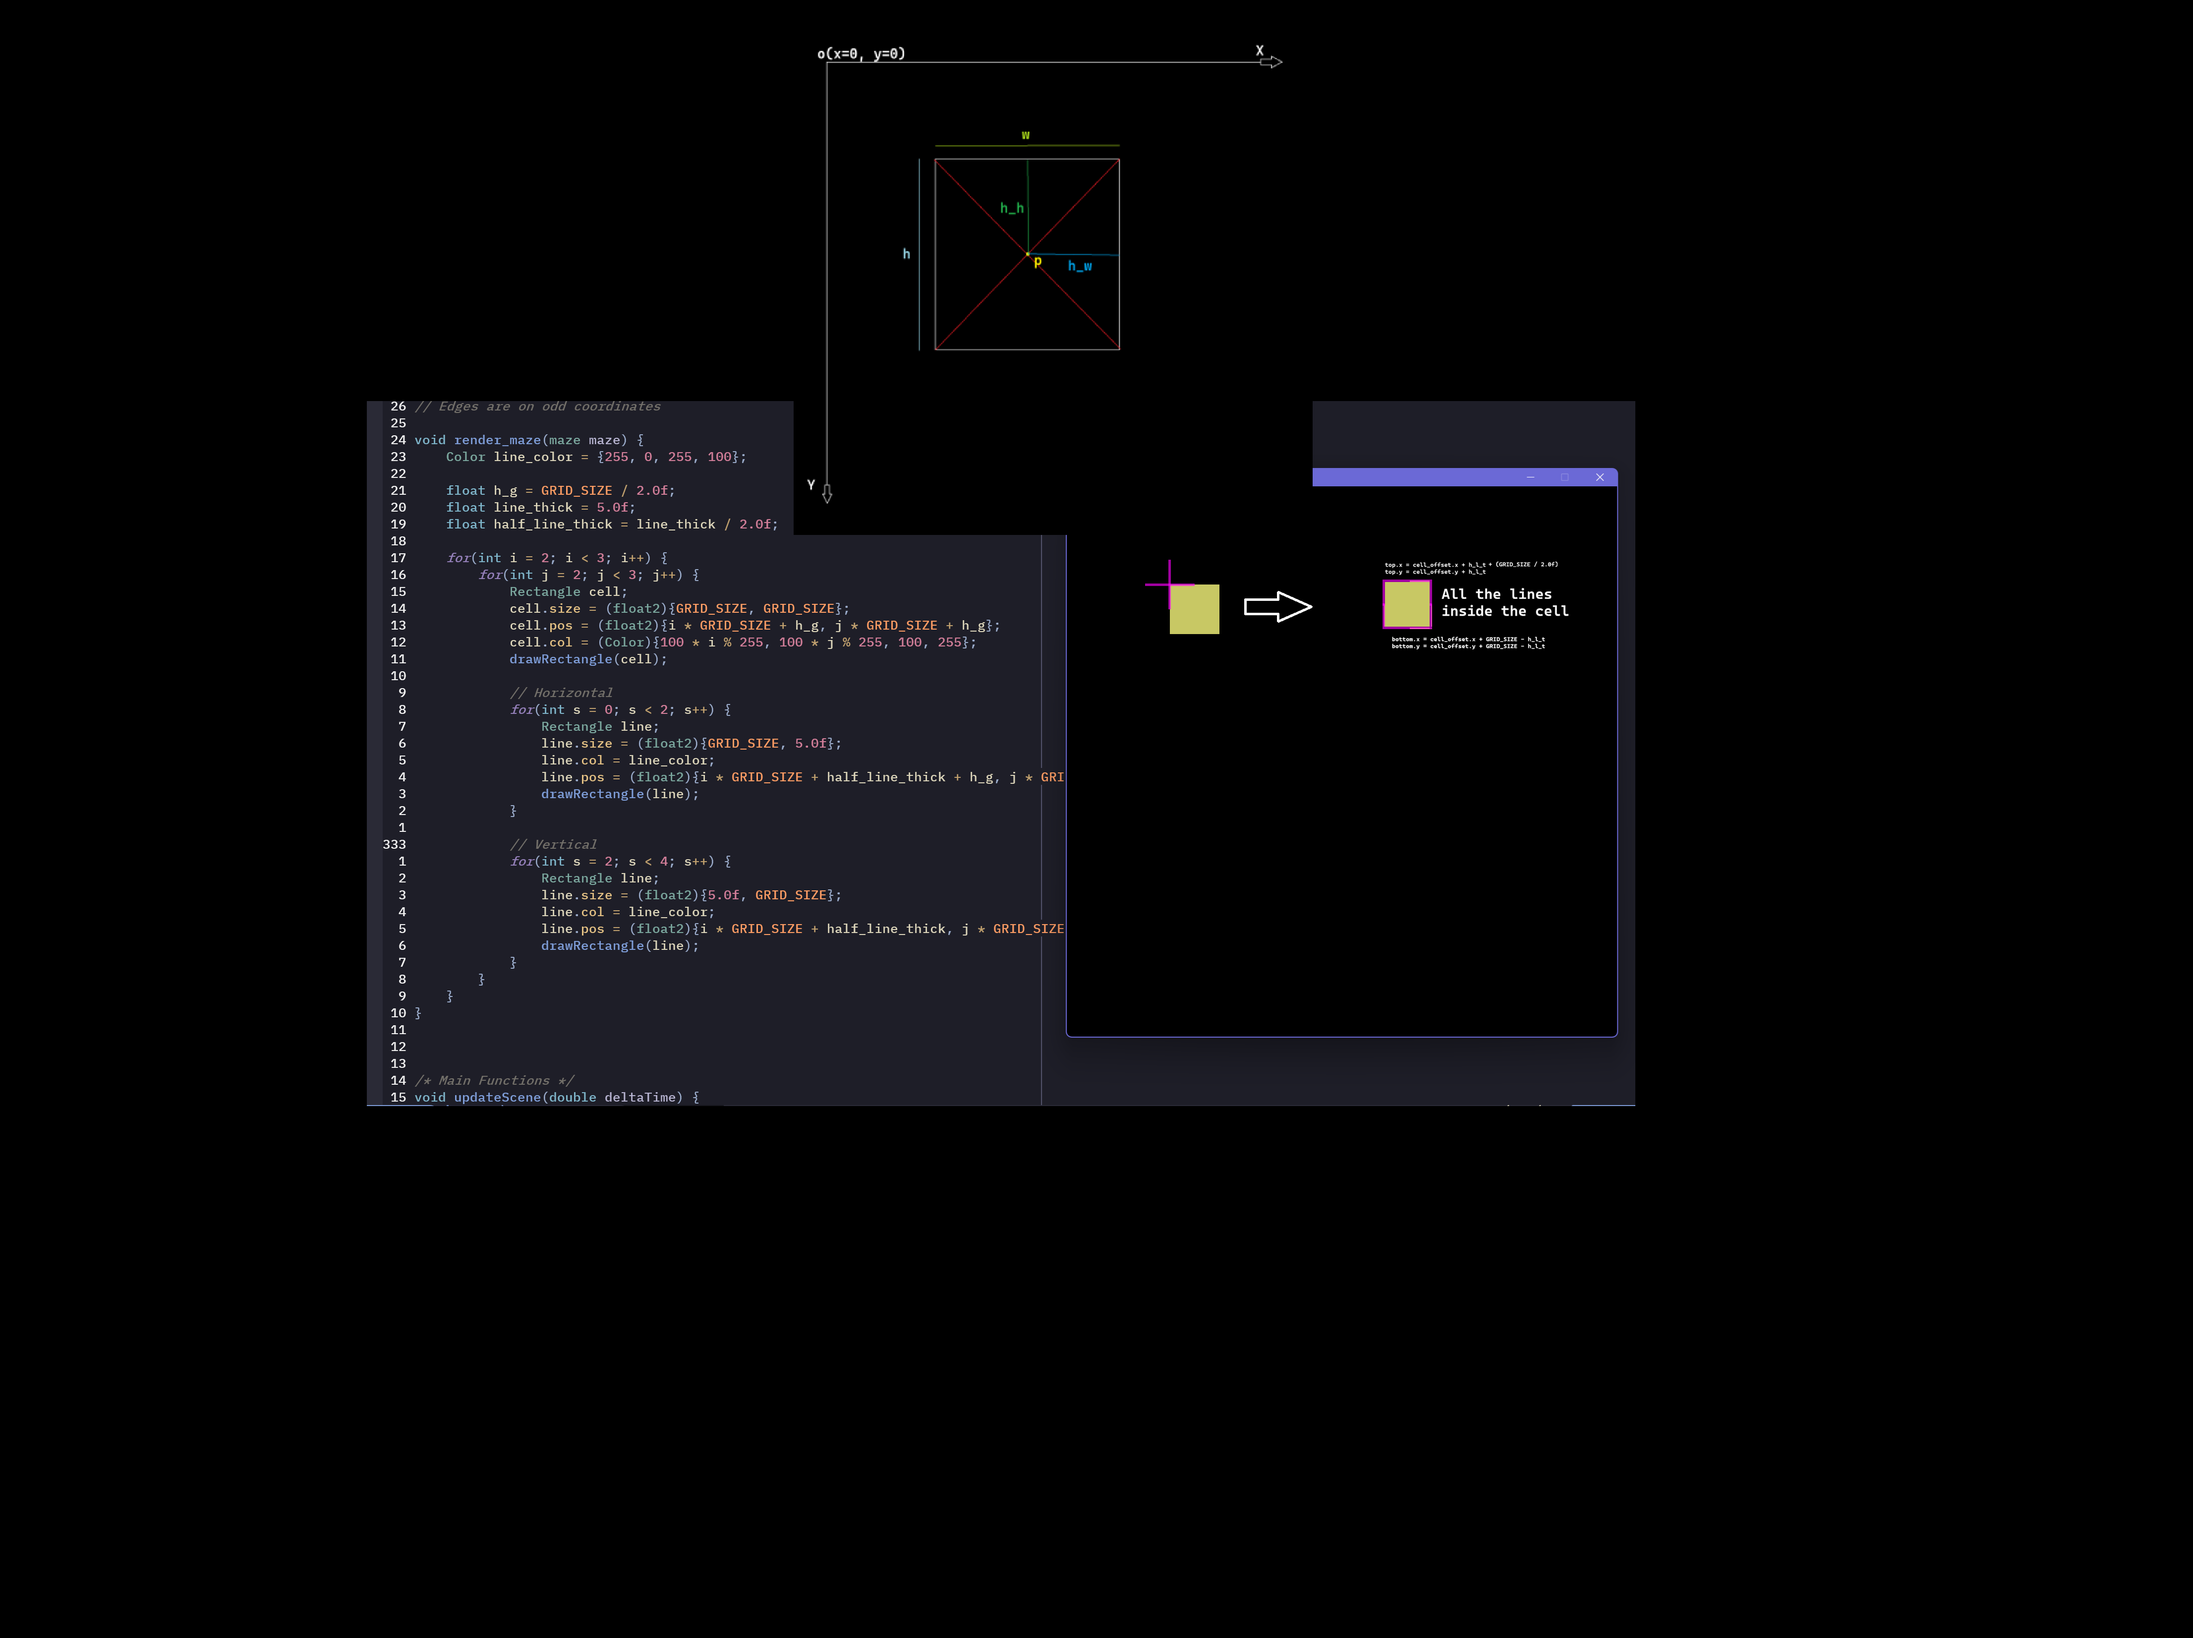
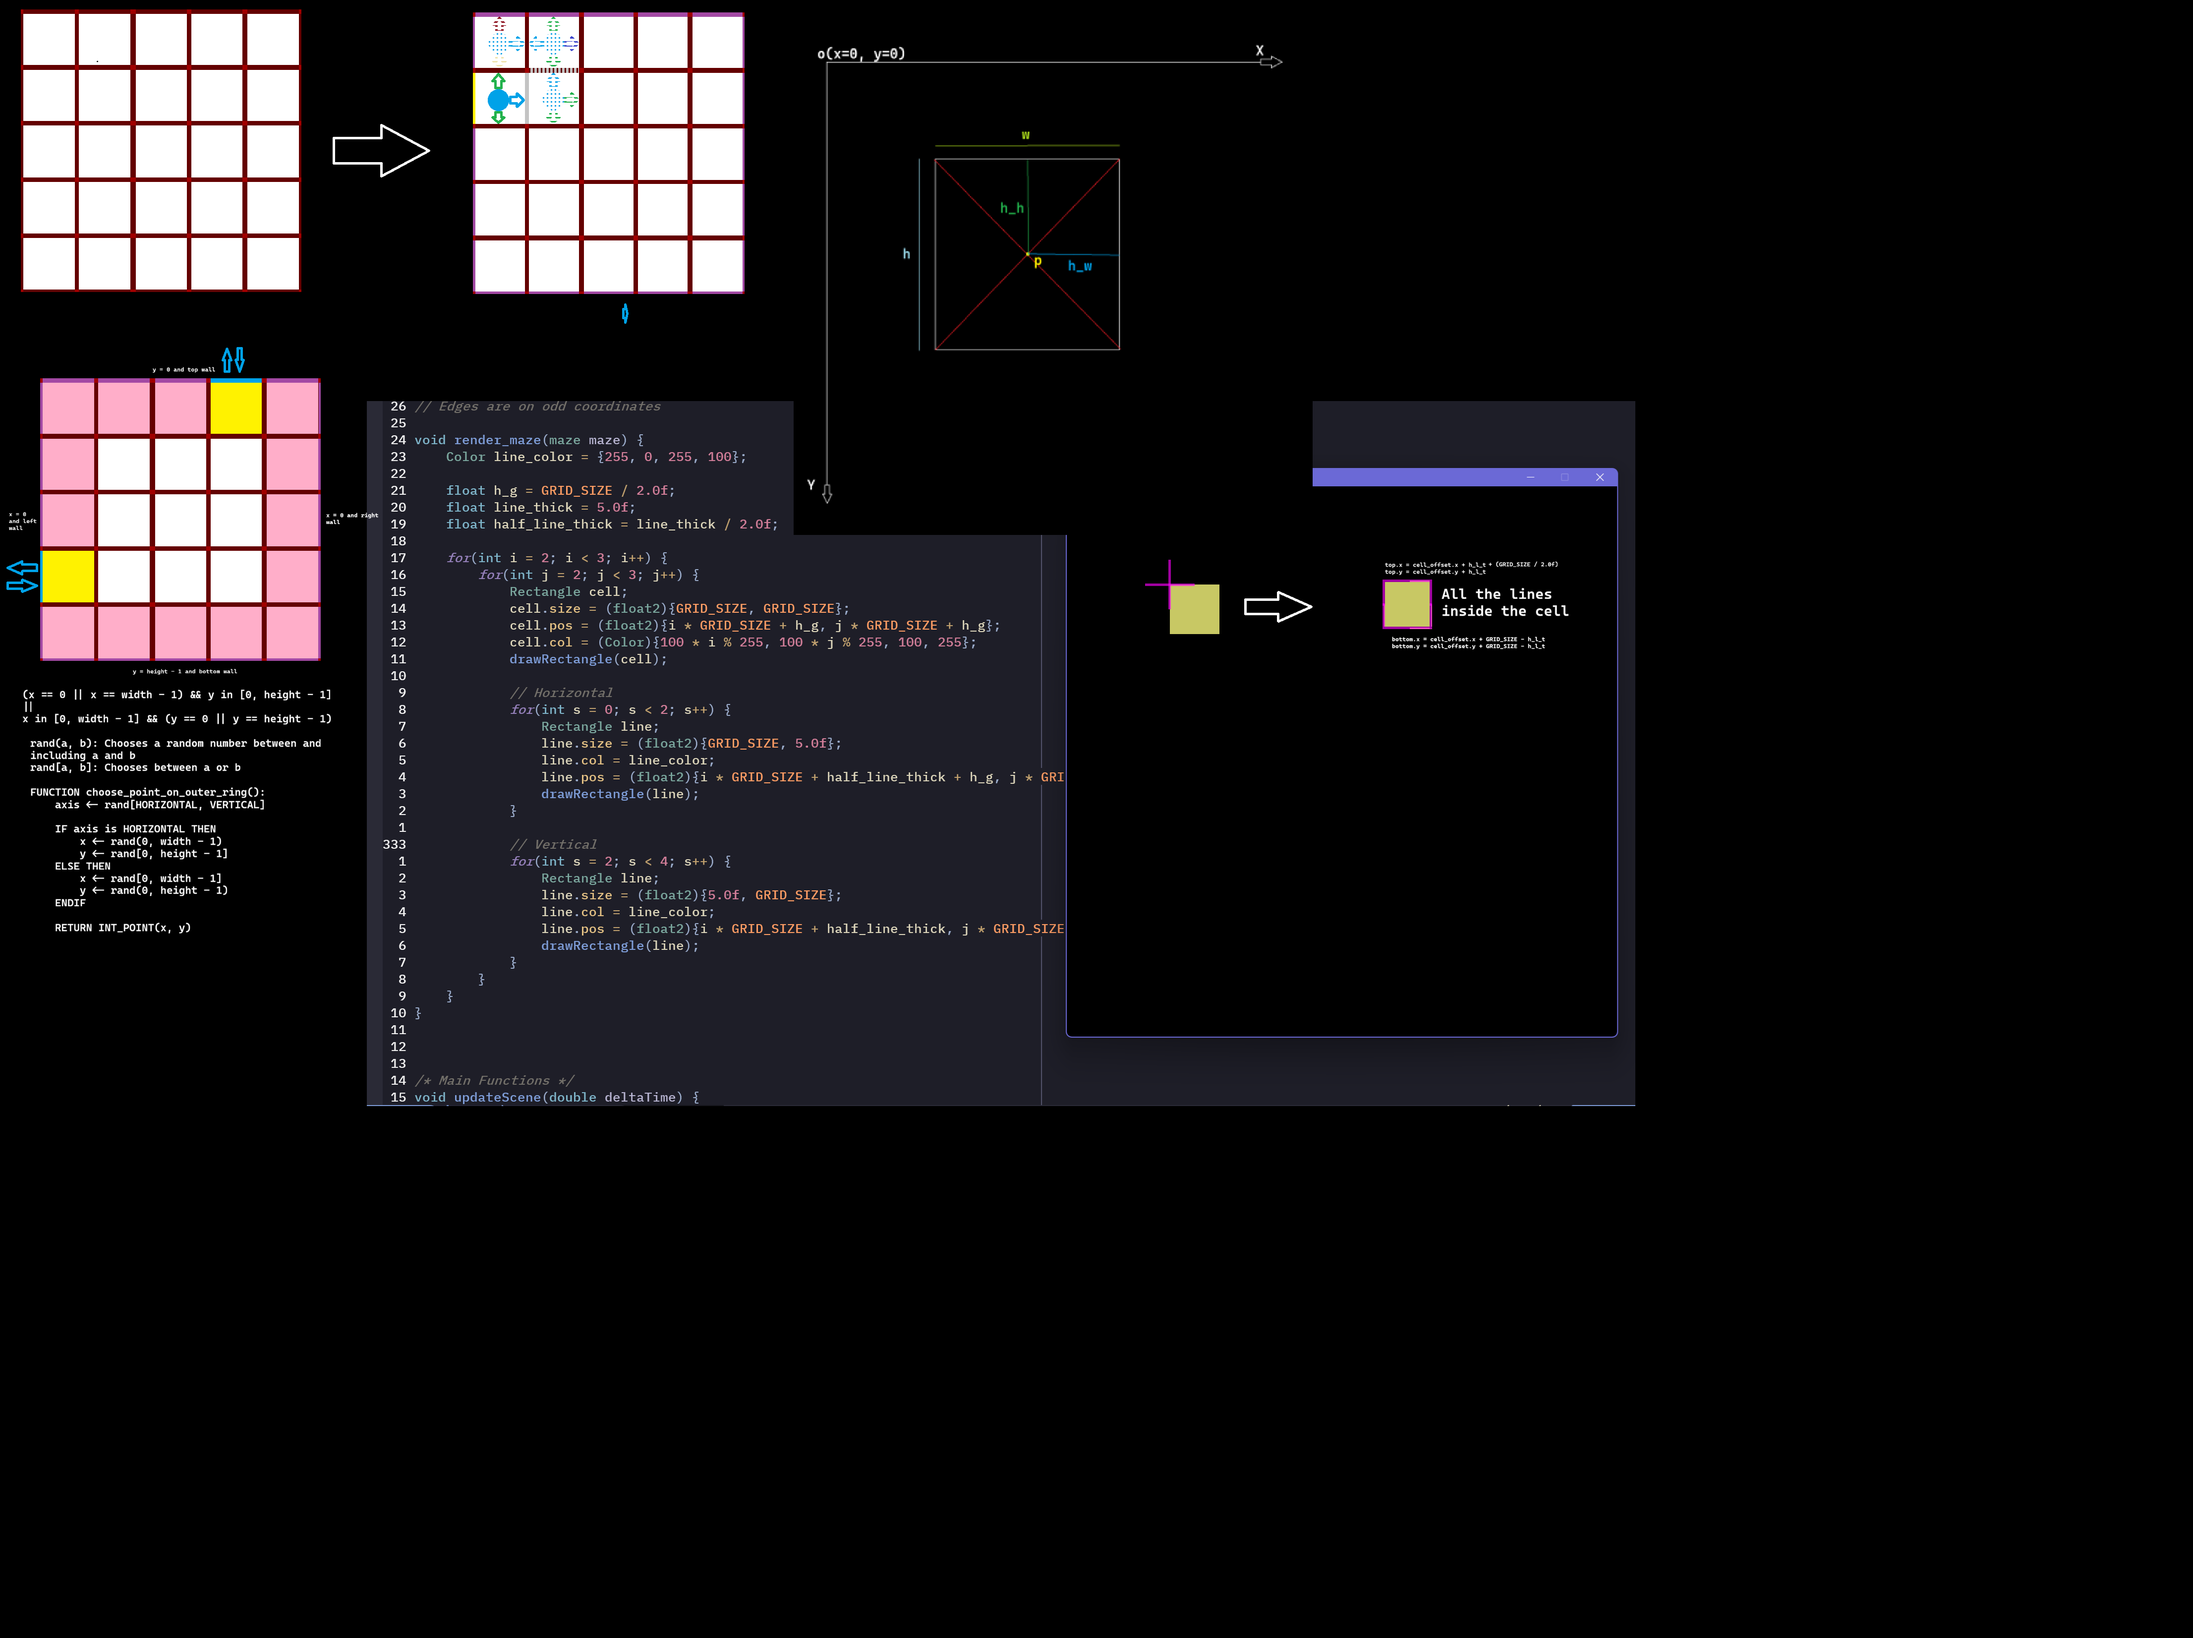
idk

diff --git a/maze/app.c b/maze/app.c
@@ -68,6 +68,13 @@ typedef struct int2 {
 
 VECTOR_DEFINE(int2);
 
+bool contains_vector_int2(Vector_int2* vector, int2 value) {
+    for(int i = 0; i < vector->length; i++) {
+        if(vector->data[i].x == value.x && vector->data[i].y == value.y) { return true; }
+    }
+    return false;
+}
+
 typedef ivec3 int3;
 typedef ivec4 int4;
 
@@ -320,7 +327,8 @@ typedef enum Direction {
     top,
     bottom,
     left,
-    right
+    right,
+    none
 } Direction;
 
 typedef struct cell {
@@ -332,6 +340,7 @@ typedef struct cell {
                    //         h t t
                    //         t   o
                    //             m
+    bool visited;
 } cell;
 
 // Represents the grid of a maze, including the edges
@@ -346,6 +355,7 @@ void initialize_maze(maze* maze) {
             set_bit(&maze->grid[i][j].wall, bottom);
             set_bit(&maze->grid[i][j].wall, left);
             set_bit(&maze->grid[i][j].wall, right);
+            maze->grid[i][j].visited = false;
         }
     }
 }
@@ -361,19 +371,30 @@ bool is_point_in_maze(int2 point) {
     return is_point_inside_box(point, valid_box.tl, valid_box.br);
 }
 
-void render_maze(maze* maze) {
+void render_maze(maze* maze, Vector_int2* visited_pos) {
     Color line_color = {50, 0, 60, 255};
-    Color no_line_color = {255, 255, 255, 100};
+    Color no_line_color = {255, 255, 255, 000};
+    Color unvisited_cell_col = {0, 0, 0, 255};
+    Color visited_cell_col = {50, 50, 150, 255};
+    Color final_cell_col = {100, 100, 150, 255};
 
 
     for(int i = 0; i < MAZE_WITDH; i++) {
         for(int j = 0; j < MAZE_HEIGHT; j++) {
+            int2 pos = {i, j};
             int2 cell_offset = (int2){i * GRID_SIZE + h_l_t, j * GRID_SIZE + h_l_t};
 
             Rectangle cell;
             cell.size = (float2){GRID_SIZE, GRID_SIZE};
             cell.pos = (float2){cell_offset.x + h_g, cell_offset.y + h_g};
-            cell.col = (Color){100, 100, 150, 255};
+            if(contains_vector_int2(visited_pos, pos)) {
+                cell.col = final_cell_col;
+            } else if(maze->grid[i][j].visited == true) {
+                cell.col = visited_cell_col;
+            } else {
+                cell.col = unvisited_cell_col;
+            }
+
             drawRectangle(cell);
 
         }
@@ -489,8 +510,15 @@ void choose_pos(int2* walker_pos) {
 }
 
 
-void choose_wall(Direction* dir) {
+void choose_dir(Direction* dir) {
     *dir = rand() % 4;
+}
+
+void get_oppositide_dir(Direction dir, Direction* op) {
+    if(dir == top) { *op = bottom; return;  }
+    if(dir == bottom) { *op = top; return; }
+    if(dir == left) { *op = left; return; }
+    if(dir == right) { *op = right; return; }
 }
 
 void choose_point_outside_ring(int2* pos) {
@@ -553,6 +581,23 @@ typedef struct Walker {
     Direction dir;
 } Walker;
 
+
+void dir_from_adyacent_ab(int2 a, int2 b, Direction* dir) {
+    int2 diff = (int2){b.x - a.x, b.y - a.y};
+    Direction dir_;
+    if(diff.x == 0 && diff.y != 0) {
+        if(diff.y < 0) { *dir = top; }
+        else { *dir = bottom; }
+    } else if(diff.x != 0 && diff.y == 0) {
+        if(diff.x < 0) { *dir = left; }
+        else { *dir = right; }
+    } else { *dir =  none; }
+}
+
+void dir_from_walker_to_walker(Walker walker_a, Walker walker_b, Direction* dir) {
+    dir_from_adyacent_ab(walker_a.head, walker_b.head, dir);
+}
+
 void predict_new_pos(Walker walker, int2* prediction) {
     int2 new_pos = walker.head;
     switch(walker.dir) {
@@ -567,6 +612,32 @@ void predict_new_pos(Walker walker, int2* prediction) {
             break;
         case right:
             new_pos.x += 1;
+            break;
+        default:
+            printf("hmmm.... no direction for walker given...\n");
+            break;
+    }
+
+    *prediction =new_pos;
+}
+
+void predict_new_pos_in_dir(Walker walker, Direction dir, int2* prediction) {
+    int2 new_pos = walker.head;
+    switch(dir) {
+        case top:
+            new_pos.y -= 1;
+            break;
+        case bottom:
+            new_pos.y += 1;
+            break;
+        case left:
+            new_pos.x -= 1;
+            break;
+        case right:
+            new_pos.x += 1;
+            break;
+        default:
+            printf("hmmm.... no direction for walker given...\n");
             break;
     }
 
@@ -588,6 +659,9 @@ bool move_walker_in_dir(Walker* walker) {
         case right:
             new_pos.x += 1;
             break;
+        default:
+            printf("hmmm.... no direction for walker given...\n");
+            break;
     }
     if(!is_point_in_maze(new_pos)) { return false; }
 
@@ -595,12 +669,109 @@ bool move_walker_in_dir(Walker* walker) {
     return true;
 }
 
-// Carve maze
-void gen_maze(maze* maze, Walker* walker, Walker* prev_walker, int step) {
+bool is_pointing_wall(maze* maze, Walker walker) {
+    return check_wall(maze, walker.head, walker.dir);
+}
+
+bool can_move_walker_in_dir(maze* maze, Walker* walker) {
+    int2 new_pos = walker->head;
+    switch(walker->dir) {
+        case top:
+            new_pos.y -= 1;
+            break;
+        case bottom:
+            new_pos.y += 1;
+            break;
+        case left:
+            new_pos.x -= 1;
+            break;
+        case right:
+            new_pos.x += 1;
+            break;
+        default:
+            printf("hmmm.... no direction for walker given...\n");
+            break;
+    }
+    if(!is_point_in_maze(new_pos)) { return false; }
+    if(maze->grid[new_pos.x][new_pos.y].visited == true) { return false; }
+
+    return true;
+}
+
+bool can_move_walker_in_visited(maze* maze, Walker* walker, Vector_int2* visited_pos) {
+    int2 new_pos = walker->head;
+    switch(walker->dir) {
+        case top:
+            new_pos.y -= 1;
+            break;
+        case bottom:
+            new_pos.y += 1;
+            break;
+        case left:
+            new_pos.x -= 1;
+            break;
+        case right:
+            new_pos.x += 1;
+            break;
+        default:
+            printf("hmmm.... no direction for walker given...\n");
+            break;
+    }
+    if(!is_point_in_maze(new_pos) ||
+       maze->grid[new_pos.x][new_pos.y].visited == false ||
+       check_wall(maze, walker->head, walker->dir) ||
+       contains_vector_int2(visited_pos, new_pos)) {
+        return false;
+    }
+
+    return true;
+}
+
+bool is_enclosed_by_visited_pos(maze* maze, Walker walker) {
+    int2 predicted_pos;
+    Walker tmp_walker = walker;
+    for(int i = 0; i < 4; i++) {
+        tmp_walker.dir = i;
+        predict_new_pos(tmp_walker, &predicted_pos);
+        if(is_point_in_maze(predicted_pos)) {
+            if(maze->grid[predicted_pos.x][predicted_pos.y].visited == false) {
+                return false;
+            }
+        }
+    }
+    return true;
+}
+
+void backtrack_walker(maze* maze, Walker* walker, Walker* prev_walker, Vector_int2* visited_pos) {
+    int2 predicted_pos;
+    predict_new_pos(*walker, &predicted_pos);
+
+    int choosed_num = 0;
+    while(!can_move_walker_in_visited(maze, walker, visited_pos)) {
+        if(choosed_num >= 4) { return; }
+        printf("Choosing new dir to backtrack..., prev: %d\n", walker->dir);
+        choose_dir(&walker->dir);
+        choosed_num++;
+    }
+    if(maze->grid[predicted_pos.x][predicted_pos.y].visited == true)
+        append_vector_int2(visited_pos, walker->head);
+    move_walker_in_dir(walker);
+}
+
+// Recursive backtracking
+void gen_maze(maze* maze, Walker* walker, Walker* prev_walker, int step, Vector_int2* visited_pos, bool* backtrack_nearest, bool* end_gen) {
     int2 tmp_pos;
     Direction tmp_dir;
+    Direction tmp_dir_2;
 
     srand(time(NULL));
+
+    printf("backtrack_nearest: %d\n", *backtrack_nearest);
+    if(*backtrack_nearest) {
+        printf("backtracking to nearest...\n");
+        backtrack_walker(maze, walker, prev_walker, visited_pos);
+        return;
+    }
 
 
     // If the step if the 0th or the 1st then add the entrances and put the
@@ -615,33 +786,48 @@ void gen_maze(maze* maze, Walker* walker, Walker* prev_walker, int step) {
 
         if(step < 1) {
             walker->head = tmp_pos;
+            maze->grid[tmp_pos.x][tmp_pos.y].visited = true;
         }
         return;
     }
 
     // If this is an actual step then make the walker walk and open walls
     Walker tmp_walker = *walker;
+    int2 predicted_pos;
     do {
+        if(is_enclosed_by_visited_pos(maze, *walker)) {
+            *backtrack_nearest = true;
+            return;
+        }
         do {
-            choose_wall(&tmp_dir);
-        } while(prev_walker->dir == tmp_dir);
+            choose_dir(&tmp_dir);
+            dir_from_walker_to_walker(*walker, *prev_walker, &tmp_dir_2);
+        } while(tmp_dir_2 == tmp_dir);
 
 
         walker->dir = tmp_dir;
+        predict_new_pos(*walker, &predicted_pos);
 
-    } while(!move_walker_in_dir(walker));
+    } while(!can_move_walker_in_dir(maze, walker));
+    move_walker_in_dir(walker);
+    maze->grid[predicted_pos.x][predicted_pos.y].visited = true;
+
 
     *prev_walker = tmp_walker;
+    clear_wall(maze, prev_walker->head, tmp_dir);
 }
 
 
 /* Main Functions */
-void updateScene(double deltaTime, double* time_elapsed, maze* maze, int* step, Walker* walker, Walker* prev_walker) {
-    if(*time_elapsed >= 0.5) {
+void updateScene(double deltaTime, double* time_elapsed, maze* maze, int* step, Walker* walker, Walker* prev_walker, Vector_int2* visited_pos, bool* backtrack_nearest, bool* end_gen) {
+    if(*time_elapsed >= 0.05 && !*end_gen) {
         printf("Step: %d\n", *step);
-        gen_maze(maze, walker, prev_walker, *step);
+        gen_maze(maze, walker, prev_walker, *step, visited_pos, backtrack_nearest, end_gen);
         *time_elapsed = 0.0;
         *step = *step + 1;
+    }
+    if(*end_gen) {
+        printf("Maze generation stopped...\n");
     }
     return;
 }
@@ -650,7 +836,7 @@ void updateScene(double deltaTime, double* time_elapsed, maze* maze, int* step, 
 // Probably gonna change to a easier way to make trails for bodies
 // Trail bodyTrail;
 
-void renderScene(GLFWwindow* window, maze* maze, Walker walker, Walker prev_walker) {
+void renderScene(GLFWwindow* window, maze* maze, Walker walker, Walker prev_walker, Vector_int2* visited_pos) {
     //glClearColor(0.05f, 0.05f, 0.1f, 1.0f);
     glClearColor(0.0f, 0.0f, 0.0f, 1.0f);
     glClear(GL_COLOR_BUFFER_BIT);
@@ -660,7 +846,7 @@ void renderScene(GLFWwindow* window, maze* maze, Walker walker, Walker prev_walk
     // Test
     // Rectangle a = {{200.0f, 204.0f}, {50.0f, 100.0f}, {255, 255, 0, 255}};
     // drawRectangle(a);
-    render_maze(maze);
+    render_maze(maze, visited_pos);
 
     float walker_r = 25.0f;
     float2 walker_pos = {walker.head.x * GRID_SIZE + h_g + h_l_t, walker.head.y * GRID_SIZE + h_g + h_l_t};
@@ -684,6 +870,12 @@ void gameLoop(GLFWwindow* window, maze* maze) {
     Walker walker = {head};
     Walker prev_walker = {head};
 
+    Vector_int2 visited_pos;
+    init_vector_int2(&visited_pos);
+
+    bool backtrack_nearest = false;
+    bool end_gen = false;
+
     while (!glfwWindowShouldClose(window)) {
         double currentTime = glfwGetTime();
         float deltaTime = (float)(currentTime - lastTime);
@@ -693,8 +885,8 @@ void gameLoop(GLFWwindow* window, maze* maze) {
 
         glfwPollEvents();
 
-        updateScene(deltaTime, &time_elapsed, maze, &step, &walker, &prev_walker);
-        renderScene(window, maze, walker, prev_walker);
+        updateScene(deltaTime, &time_elapsed, maze, &step, &walker, &prev_walker, &visited_pos, &backtrack_nearest, &end_gen);
+        renderScene(window, maze, walker, prev_walker, &visited_pos);
     }
 }
 
